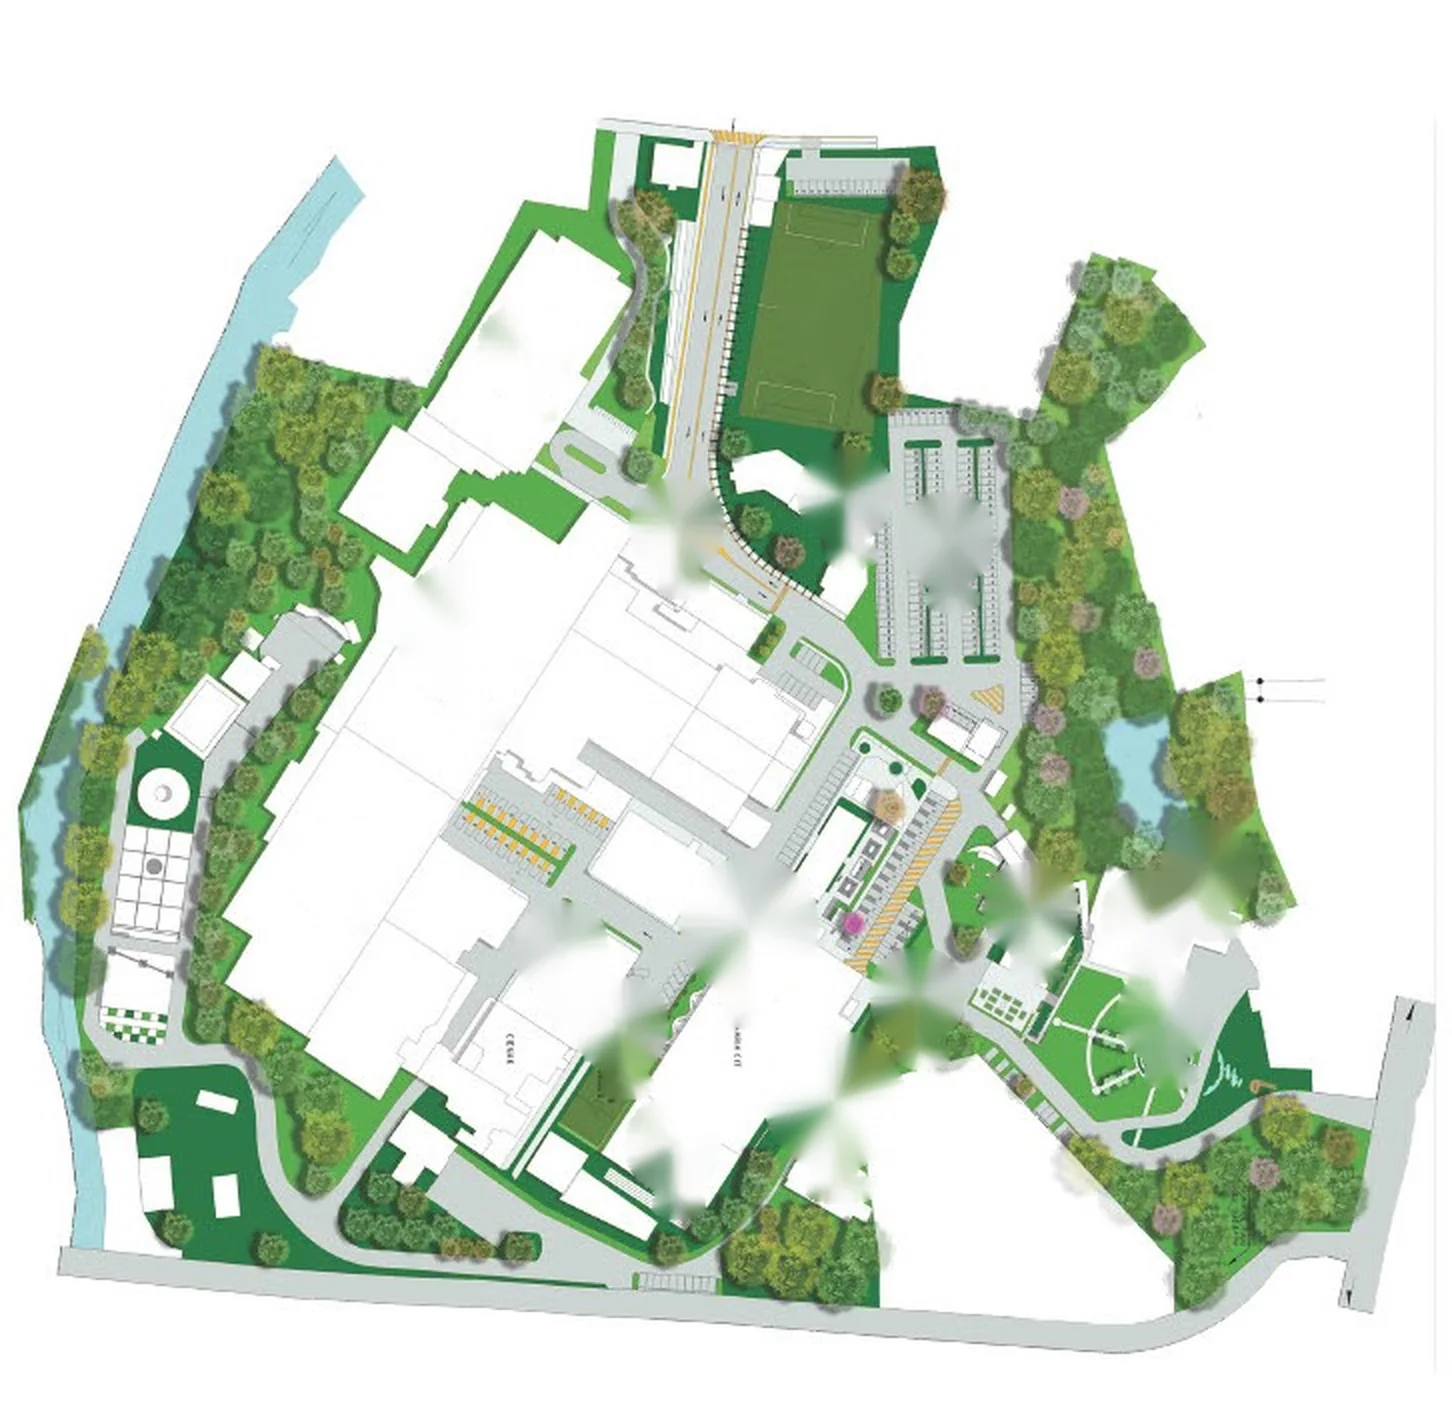
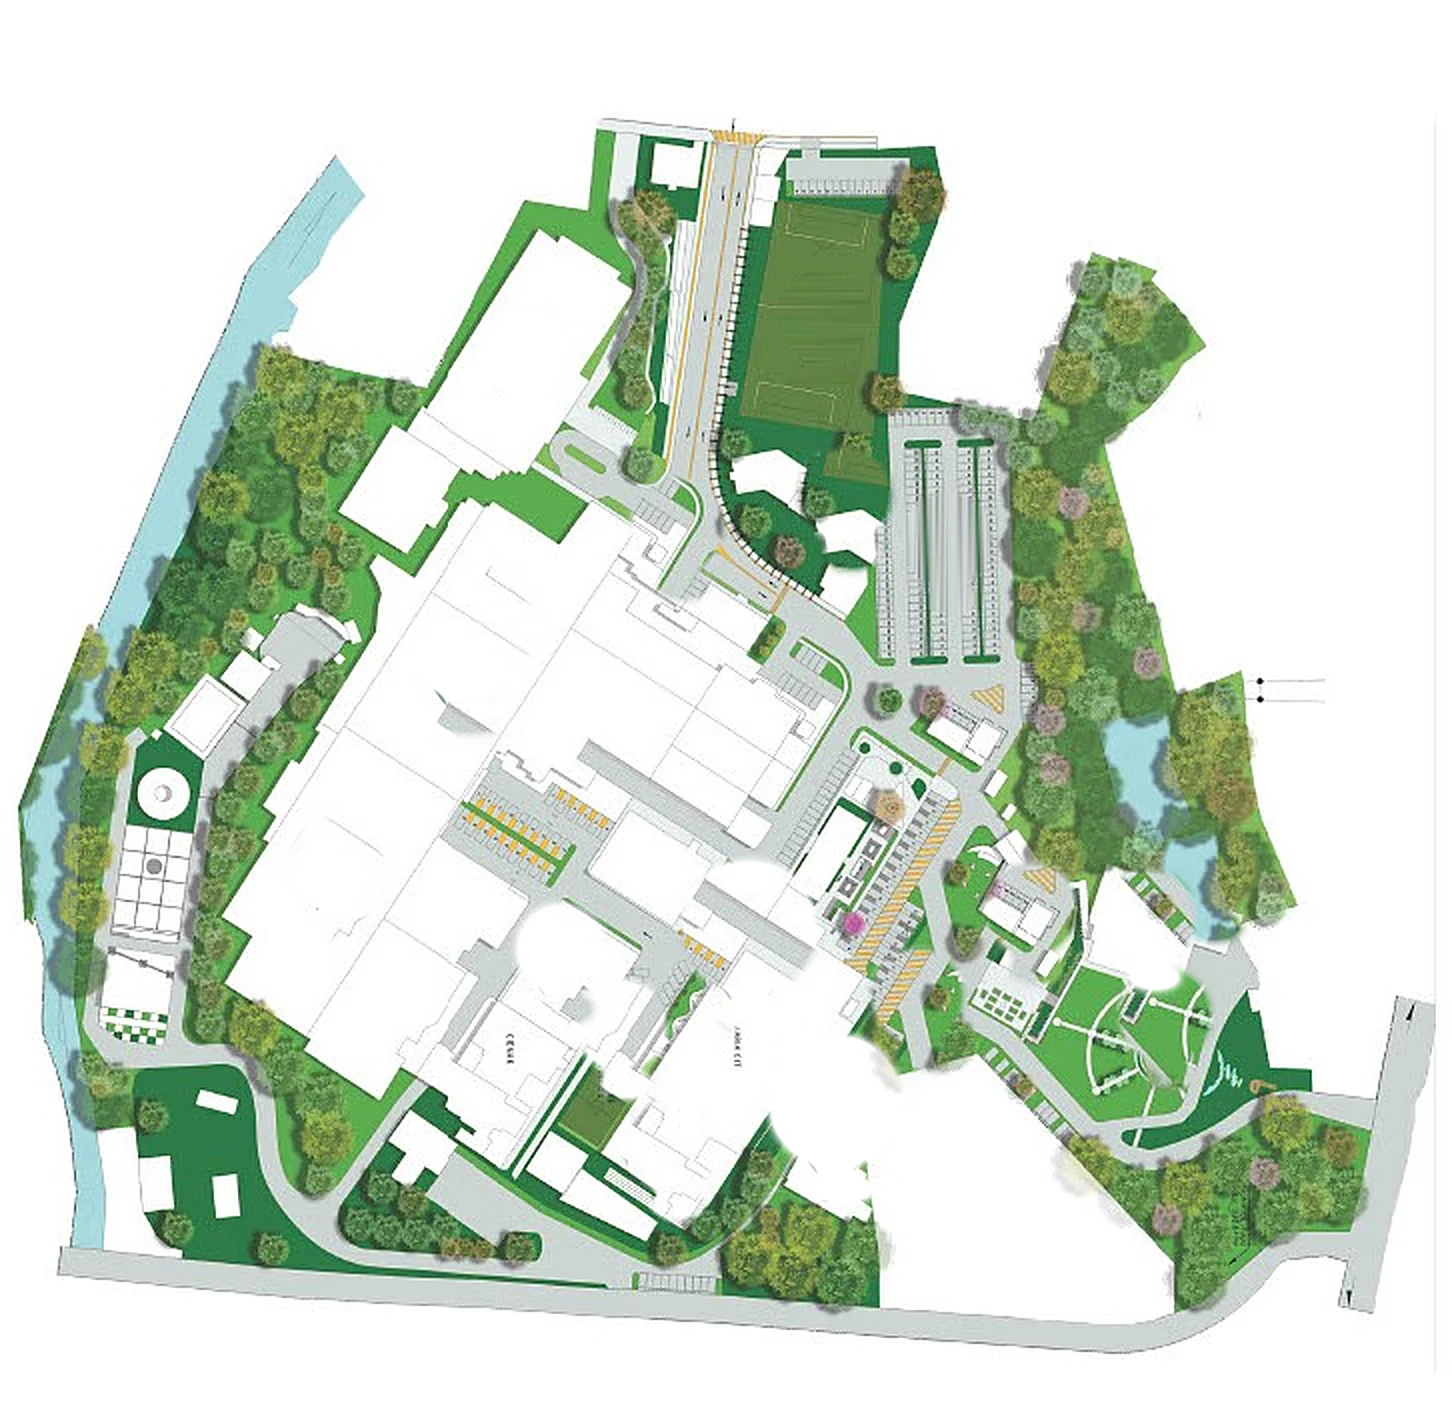
Quita las manchas borrosas del mapa
Los pines originales se habian borrado difuminando el fondo. Ahora cada
zona se rellena copiando textura real del mismo mapa (arboles, techos,
parqueo, cancha) siguiendo la direccion de sus lineas, y se borra un
letrero que habia quedado repetido. El mapa ampliado lleva un leve
enfoque y el zoom maximo baja a 3x para que no se pixele.

diff --git a/src/components/mapa/MapaCampus.vue b/src/components/mapa/MapaCampus.vue
@@ -27,7 +27,7 @@ const props = defineProps({
 const emit = defineEmits(['elegir', 'colocar'])
 
 const MIN = 1
-const MAX = 4
+const MAX = 3
 const svg = ref(null)
 const vista = reactive({ x: 0, y: 0, k: 1 })
 let animacion = null
